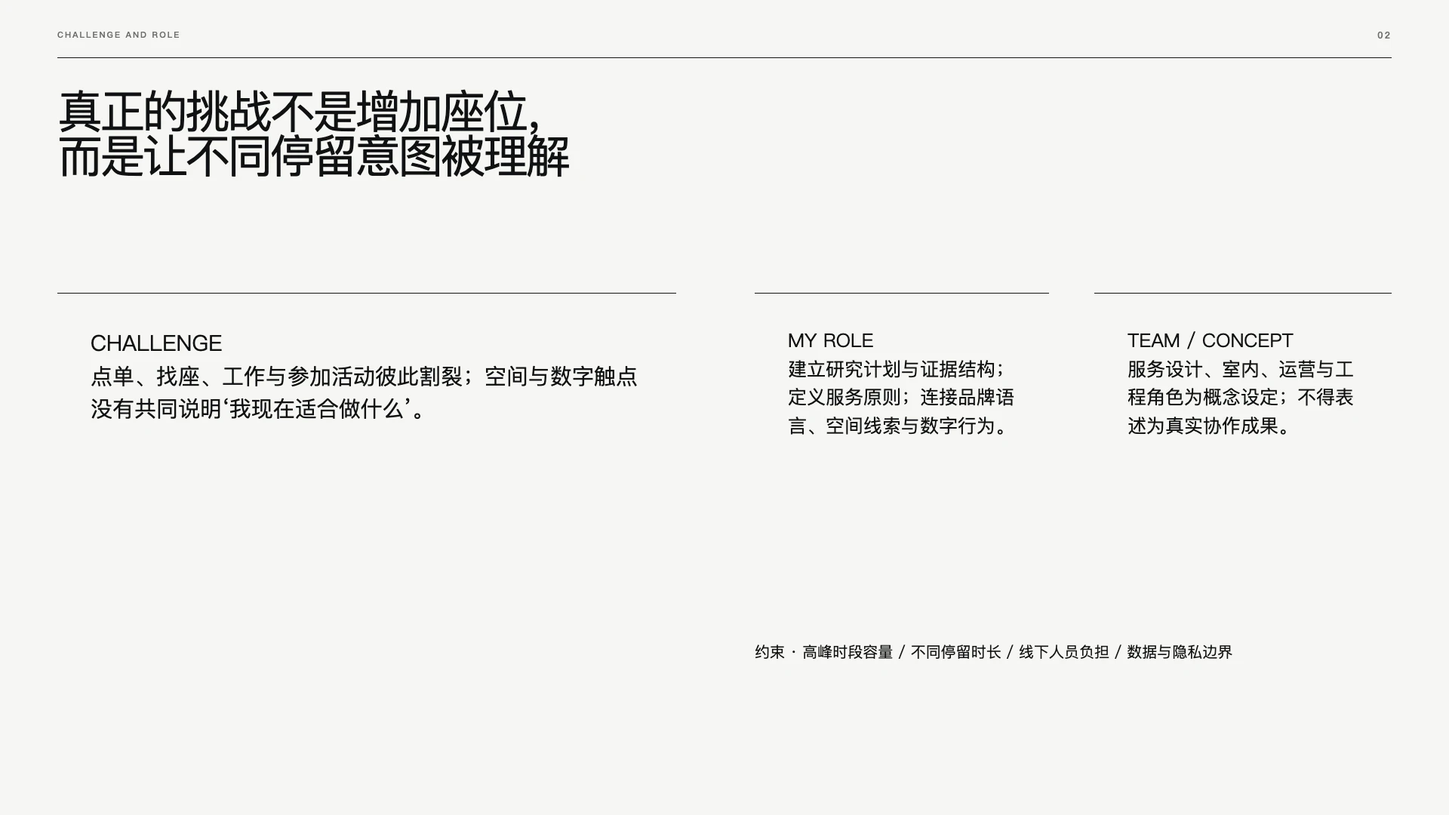
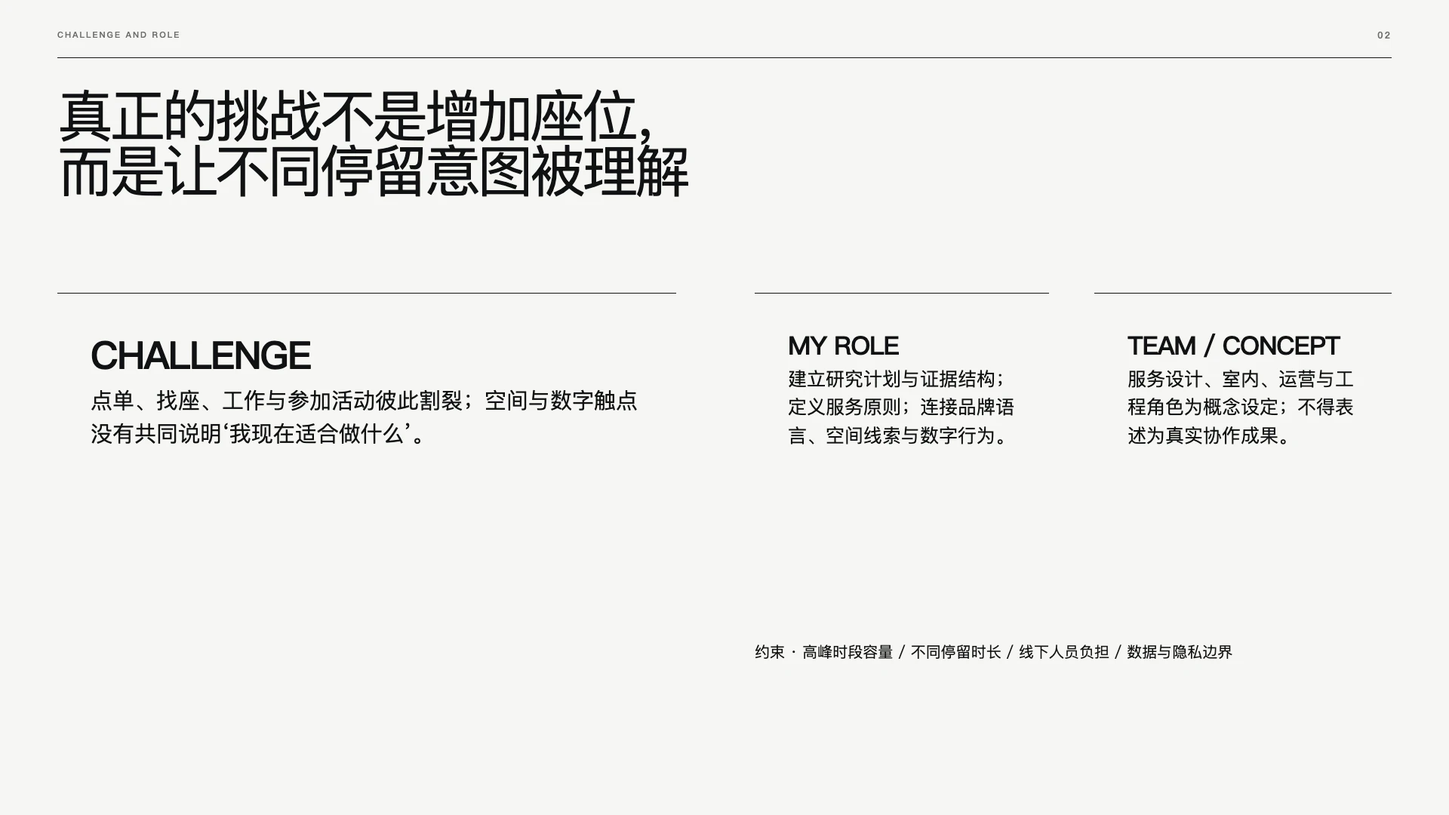
chore: publish presentation Skills from f9cfb76

diff --git a/skills/ux-brand-case-study/assets/explorations/aster-yard-0.4.0/routes/signal-pitch/theme.css b/skills/ux-brand-case-study/assets/explorations/aster-yard-0.4.0/routes/signal-pitch/theme.css
@@ -5,42 +5,45 @@ body[data-theme="signal-pitch"] {
 }
 body[data-theme="signal-pitch"] .slide { background:#f4f3ef; }
 body[data-theme="signal-pitch"] .slide::before { left:64px; top:48px; width:18px; height:18px; border-radius:50%; background:var(--deck-accent); }
-body[data-theme="signal-pitch"] .slide::after { right:64px; top:42px; min-width:48px; height:28px; display:grid; place-items:center; border:1px solid #0d0e0f; border-radius:999px; font-size:12px; font-weight:800; }
+body[data-theme="signal-pitch"] .slide::after { right:64px; top:42px; min-width:50px; height:30px; display:grid; place-items:center; border:0; border-radius:999px; background:#0d0e0f; color:#fff; font-size:12px; font-weight:800; }
 body[data-theme="signal-pitch"] .slide__eyebrow { left:102px; top:46px; font-size:12px; letter-spacing:.18em; color:#0d0e0f; }
 body[data-theme="signal-pitch"] .object--text[data-role="deck-title"],
 body[data-theme="signal-pitch"] .object--text[data-role="slide-assertion"],
 body[data-theme="signal-pitch"] .object--text[data-role="decision-statement"] { font-weight:800!important; letter-spacing:-.055em!important; line-height:.98!important; }
-body[data-theme="signal-pitch"] .object--shape { background:#fff; border:1px solid #0d0e0f; border-radius:0; white-space:pre-wrap; }
-body[data-theme="signal-pitch"] .group__stage { border:1px solid #0d0e0f; background:#fff; font-size:20px; border-radius:0; }
+body[data-theme="signal-pitch"] .object--shape { background:#fff; border:0; border-radius:38px; white-space:pre-wrap; }
+body[data-theme="signal-pitch"] .object--shape::first-line { font-size:1.22em; font-weight:850; letter-spacing:-.035em; }
+body[data-theme="signal-pitch"] .group__stage { border:0; background:#fff; font-size:20px; border-radius:30px; }
+body[data-theme="signal-pitch"] .group__stage::first-line { font-size:1.35em; letter-spacing:-.04em; }
 body[data-theme="signal-pitch"] .slide--cover { background:linear-gradient(90deg,#f4f3ef 0 62%,#0d0e0f 62%); }
-body[data-theme="signal-pitch"] .slide--cover .object--text[data-role="deck-title"] { left:104px!important; top:210px!important; width:990px!important; height:348px!important; font-size:94px!important; }
+body[data-theme="signal-pitch"] .slide--cover .object--text[data-role="deck-title"] { left:104px!important; top:210px!important; width:990px!important; height:370px!important; font-size:104px!important; }
 body[data-theme="signal-pitch"] .slide--cover .object--text[data-role="project-name"] { left:104px!important; top:116px!important; color:#0d0e0f; }
 body[data-theme="signal-pitch"] .slide--cover .object--text[data-role="role-summary"] { left:104px!important; top:650px!important; width:860px!important; }
 body[data-theme="signal-pitch"] .slide--cover .object--text[data-role="concept-disclosure"] { left:104px!important; top:934px!important; color:#64645f; }
-body[data-theme="signal-pitch"] .slide--cover .object--image { left:1230px!important; top:110px!important; width:626px!important; height:858px!important; border-radius:0!important; }
+body[data-theme="signal-pitch"] .slide--cover .object--image { left:1230px!important; top:110px!important; width:626px!important; height:858px!important; border-radius:46px!important; }
 body[data-theme="signal-pitch"] .slide--cover .object--text[data-role="image-caption"] { left:1262px!important; top:902px!important; width:548px!important; color:#fff; }
-body[data-theme="signal-pitch"] .slide--comparison .object--text[data-role="slide-assertion"] { left:104px!important; top:132px!important; width:1120px!important; }
-body[data-theme="signal-pitch"] .slide--comparison .object--shape { top:370px!important; height:420px!important; }
-body[data-theme="signal-pitch"] .slide--comparison .object--shape[data-role="challenge-panel"] { left:104px!important; width:760px!important; background:#0d0e0f; color:#fff; }
-body[data-theme="signal-pitch"] .slide--comparison .object--shape[data-role="role-panel"] { left:888px!important; width:438px!important; background:var(--deck-accent); }
-body[data-theme="signal-pitch"] .slide--comparison .object--shape[data-role="team-panel"] { left:1350px!important; width:466px!important; }
+body[data-theme="signal-pitch"] .slide--comparison .object--text[data-role="slide-assertion"] { left:104px!important; top:132px!important; width:1320px!important; height:190px!important; font-size:72px!important; }
+body[data-theme="signal-pitch"] .slide--comparison .object--shape { top:400px!important; height:390px!important; }
+body[data-theme="signal-pitch"] .slide--comparison .object--shape[data-role="challenge-panel"] { left:104px!important; width:820px!important; background:#0d0e0f; color:#fff; font-size:29px!important; }
+body[data-theme="signal-pitch"] .slide--comparison .object--shape[data-role="role-panel"] { left:948px!important; width:398px!important; background:var(--deck-accent); font-size:22px!important; }
+body[data-theme="signal-pitch"] .slide--comparison .object--shape[data-role="team-panel"] { left:1370px!important; width:446px!important; font-size:21px!important; }
 body[data-theme="signal-pitch"] .slide--comparison .object--text[data-role="constraint-note"] { left:104px!important; top:850px!important; }
-body[data-theme="signal-pitch"] .slide--process .object--text[data-role="slide-assertion"] { left:104px!important; top:116px!important; width:820px!important; }
+body[data-theme="signal-pitch"] .slide--process .object--text[data-role="slide-assertion"] { left:104px!important; top:116px!important; width:900px!important; height:182px!important; font-size:70px!important; }
 body[data-theme="signal-pitch"] .slide--process .object--image { left:104px!important; top:330px!important; width:628px!important; height:570px!important; filter:grayscale(.28) contrast(1.05); }
 body[data-theme="signal-pitch"] .slide--process .object--group { left:776px!important; top:330px!important; width:1040px!important; height:246px!important; gap:12px!important; }
 body[data-theme="signal-pitch"] .slide--process .object--shape[data-role="evidence-method"] { left:776px!important; top:618px!important; width:510px!important; height:282px!important; background:var(--deck-accent); }
 body[data-theme="signal-pitch"] .slide--process .object--shape[data-role="evidence-limitation"] { left:1306px!important; top:618px!important; width:510px!important; height:282px!important; }
 body[data-theme="signal-pitch"] .slide#s04-iteration .object--shape[data-role="iteration-a"] { left:104px!important; top:350px!important; width:480px!important; height:450px!important; }
-body[data-theme="signal-pitch"] .slide#s04-iteration .object--shape[data-role="iteration-b"] { left:610px!important; top:300px!important; width:596px!important; height:550px!important; background:var(--deck-accent); border-width:2px; }
+body[data-theme="signal-pitch"] .slide#s04-iteration .object--shape::first-line { font-size:1.55em; }
+body[data-theme="signal-pitch"] .slide#s04-iteration .object--shape[data-role="iteration-b"] { left:610px!important; top:300px!important; width:596px!important; height:550px!important; background:var(--deck-accent); }
 body[data-theme="signal-pitch"] .slide#s04-iteration .object--shape[data-role="iteration-c"] { left:1232px!important; top:350px!important; width:584px!important; height:450px!important; background:#0d0e0f; color:#fff; }
-body[data-theme="signal-pitch"] .slide--image .object--text[data-role="slide-assertion"] { left:104px!important; top:112px!important; width:880px!important; }
-body[data-theme="signal-pitch"] .slide--image .object--image { left:104px!important; top:338px!important; width:934px!important; height:604px!important; }
+body[data-theme="signal-pitch"] .slide--image .object--text[data-role="slide-assertion"] { left:104px!important; top:112px!important; width:1120px!important; height:190px!important; font-size:74px!important; }
+body[data-theme="signal-pitch"] .slide--image .object--image { left:104px!important; top:338px!important; width:934px!important; height:604px!important; border-radius:44px!important; }
 body[data-theme="signal-pitch"] .slide--image .object--group { left:1064px!important; top:338px!important; width:752px!important; height:248px!important; gap:10px!important; }
 body[data-theme="signal-pitch"] .slide--image .object--shape[data-role="system-rule-a"] { left:1064px!important; top:620px!important; width:364px!important; height:220px!important; background:var(--deck-accent); }
 body[data-theme="signal-pitch"] .slide--image .object--shape[data-role="system-rule-b"] { left:1452px!important; top:620px!important; width:364px!important; height:220px!important; }
 body[data-theme="signal-pitch"] .slide--image .object--text[data-role="application-caption"] { left:1064px!important; top:900px!important; }
 body[data-theme="signal-pitch"] .slide--closing { background:linear-gradient(90deg,#0d0e0f 0 63%,#ddf000 63%); color:#fff; }
-body[data-theme="signal-pitch"] .slide--closing .object--text[data-role="decision-statement"] { left:104px!important; top:180px!important; width:1050px!important; color:#fff; }
+body[data-theme="signal-pitch"] .slide--closing .object--text[data-role="decision-statement"] { left:104px!important; top:180px!important; width:1050px!important; height:270px!important; color:#fff; font-size:76px!important; }
 body[data-theme="signal-pitch"] .slide--closing .object--shape { top:550px!important; height:270px!important; color:#0d0e0f; }
 body[data-theme="signal-pitch"] .slide--closing .object--shape[data-role="outcome-known"] { left:104px!important; width:490px!important; }
 body[data-theme="signal-pitch"] .slide--closing .object--shape[data-role="outcome-next"] { left:620px!important; width:490px!important; }

diff --git a/skills/ux-brand-case-study/assets/explorations/aster-yard-0.4.0/routes/open-frame/theme.css b/skills/ux-brand-case-study/assets/explorations/aster-yard-0.4.0/routes/open-frame/theme.css
@@ -11,37 +11,41 @@ body[data-theme="open-frame"] .object--text[data-role="deck-title"],
 body[data-theme="open-frame"] .object--text[data-role="slide-assertion"],
 body[data-theme="open-frame"] .object--text[data-role="decision-statement"] { font-weight:500!important; letter-spacing:-.06em!important; line-height:.98!important; }
 body[data-theme="open-frame"] .object--shape { background:transparent; border-top:1px solid var(--deck-text); border-right:0; border-bottom:0; border-left:0; white-space:pre-wrap; }
+body[data-theme="open-frame"] .object--shape::first-line { font-size:1.35em; font-weight:650; letter-spacing:-.04em; }
 body[data-theme="open-frame"] .group__stage { border:0; border-left:1px solid var(--deck-rule); background:transparent; font-size:18px; padding:22px; }
+body[data-theme="open-frame"] .group__stage::first-line { font-size:1.35em; letter-spacing:-.05em; }
 body[data-theme="open-frame"] .slide--cover .object--text[data-role="project-name"] { left:76px!important; top:112px!important; }
-body[data-theme="open-frame"] .slide--cover .object--text[data-role="deck-title"] { left:76px!important; top:192px!important; width:760px!important; height:400px!important; font-size:84px!important; }
+body[data-theme="open-frame"] .slide--cover .object--text[data-role="deck-title"] { left:76px!important; top:192px!important; width:790px!important; height:440px!important; font-size:108px!important; }
 body[data-theme="open-frame"] .slide--cover .object--text[data-role="role-summary"] { left:76px!important; top:704px!important; width:700px!important; font-size:20px!important; }
 body[data-theme="open-frame"] .slide--cover .object--text[data-role="concept-disclosure"] { left:76px!important; top:946px!important; }
 body[data-theme="open-frame"] .slide--cover .object--image { left:900px!important; top:118px!important; width:944px!important; height:826px!important; }
 body[data-theme="open-frame"] .slide--cover .object--text[data-role="image-caption"] { left:932px!important; top:886px!important; width:850px!important; color:#fff; }
-body[data-theme="open-frame"] .slide--comparison .object--text[data-role="slide-assertion"] { left:76px!important; top:118px!important; width:1180px!important; font-size:60px!important; }
+body[data-theme="open-frame"] .slide--comparison .object--text[data-role="slide-assertion"] { left:76px!important; top:118px!important; width:1360px!important; height:194px!important; font-size:74px!important; }
 body[data-theme="open-frame"] .slide--comparison .object--shape[data-role="challenge-panel"] { left:76px!important; top:388px!important; width:820px!important; height:390px!important; font-size:29px!important; }
+body[data-theme="open-frame"] .slide--comparison .object--shape[data-role="challenge-panel"]::first-line { font-size:1.75em; }
 body[data-theme="open-frame"] .slide--comparison .object--shape[data-role="role-panel"] { left:1000px!important; top:388px!important; width:390px!important; height:390px!important; }
 body[data-theme="open-frame"] .slide--comparison .object--shape[data-role="team-panel"] { left:1450px!important; top:388px!important; width:394px!important; height:390px!important; }
 body[data-theme="open-frame"] .slide--comparison .object--text[data-role="constraint-note"] { left:1000px!important; top:850px!important; width:810px!important; font-size:20px!important; }
-body[data-theme="open-frame"] .slide--process .object--text[data-role="slide-assertion"] { left:76px!important; top:118px!important; width:820px!important; }
+body[data-theme="open-frame"] .slide--process .object--text[data-role="slide-assertion"] { left:76px!important; top:118px!important; width:850px!important; height:192px!important; font-size:72px!important; }
 body[data-theme="open-frame"] .slide--process .object--image { left:1020px!important; top:118px!important; width:824px!important; height:520px!important; }
 body[data-theme="open-frame"] .slide--process .object--group { left:76px!important; top:394px!important; width:820px!important; height:244px!important; gap:0!important; }
 body[data-theme="open-frame"] .slide--process .object--shape[data-role="evidence-method"] { left:76px!important; top:730px!important; width:820px!important; height:220px!important; }
 body[data-theme="open-frame"] .slide--process .object--shape[data-role="evidence-limitation"] { left:1020px!important; top:730px!important; width:824px!important; height:220px!important; }
 body[data-theme="open-frame"] .slide#s04-iteration .object--text[data-role="slide-assertion"] { left:76px!important; top:118px!important; width:890px!important; }
 body[data-theme="open-frame"] .slide#s04-iteration .object--shape[data-role="iteration-a"] { left:76px!important; top:390px!important; width:430px!important; height:430px!important; }
-body[data-theme="open-frame"] .slide#s04-iteration .object--shape[data-role="iteration-b"] { left:610px!important; top:316px!important; width:580px!important; height:580px!important; background:#111214; color:#fff; border:0; }
+body[data-theme="open-frame"] .slide#s04-iteration .object--shape::first-line { font-size:1.55em; }
+body[data-theme="open-frame"] .slide#s04-iteration .object--shape[data-role="iteration-b"] { left:610px!important; top:286px!important; width:590px!important; height:620px!important; background:#111214; color:#fff; border:0; font-size:30px!important; }
 body[data-theme="open-frame"] .slide#s04-iteration .object--shape[data-role="iteration-c"] { left:1320px!important; top:390px!important; width:524px!important; height:430px!important; }
 body[data-theme="open-frame"] .slide#s04-iteration .object--text[data-role="iteration-learning"] { left:76px!important; top:930px!important; }
-body[data-theme="open-frame"] .slide--image .object--text[data-role="slide-assertion"] { left:76px!important; top:118px!important; width:760px!important; font-size:50px!important; }
-body[data-theme="open-frame"] .slide--image .object--image { left:860px!important; top:118px!important; width:984px!important; height:620px!important; }
-body[data-theme="open-frame"] .slide--image .object--group { left:76px!important; top:470px!important; width:700px!important; height:268px!important; gap:0!important; }
-body[data-theme="open-frame"] .slide--image .object--shape[data-role="system-rule-a"] { left:860px!important; top:820px!important; width:460px!important; height:150px!important; }
-body[data-theme="open-frame"] .slide--image .object--shape[data-role="system-rule-b"] { left:1384px!important; top:820px!important; width:460px!important; height:150px!important; }
+body[data-theme="open-frame"] .slide--image .object--text[data-role="slide-assertion"] { left:76px!important; top:118px!important; width:840px!important; height:172px!important; font-size:58px!important; }
+body[data-theme="open-frame"] .slide--image .object--image { left:960px!important; top:118px!important; width:884px!important; height:620px!important; }
+body[data-theme="open-frame"] .slide--image .object--group { left:76px!important; top:470px!important; width:780px!important; height:268px!important; gap:0!important; }
+body[data-theme="open-frame"] .slide--image .object--shape[data-role="system-rule-a"] { left:960px!important; top:820px!important; width:424px!important; height:150px!important; }
+body[data-theme="open-frame"] .slide--image .object--shape[data-role="system-rule-b"] { left:1420px!important; top:820px!important; width:424px!important; height:150px!important; }
 body[data-theme="open-frame"] .slide--image .object--text[data-role="application-caption"] { left:76px!important; top:900px!important; width:700px!important; }
-body[data-theme="open-frame"] .slide--closing .object--text[data-role="decision-statement"] { left:76px!important; top:148px!important; width:980px!important; height:300px!important; font-size:72px!important; }
+body[data-theme="open-frame"] .slide--closing .object--text[data-role="decision-statement"] { left:76px!important; top:148px!important; width:1020px!important; height:286px!important; font-size:72px!important; }
 body[data-theme="open-frame"] .slide--closing .object--shape { height:260px!important; }
 body[data-theme="open-frame"] .slide--closing .object--shape[data-role="outcome-known"] { left:1130px!important; top:148px!important; width:714px!important; }
 body[data-theme="open-frame"] .slide--closing .object--shape[data-role="outcome-next"] { left:1130px!important; top:466px!important; width:714px!important; }
-body[data-theme="open-frame"] .slide--closing .object--shape[data-role="reflection"] { left:76px!important; top:620px!important; width:980px!important; height:280px!important; font-size:28px!important; }
+body[data-theme="open-frame"] .slide--closing .object--shape[data-role="reflection"] { left:76px!important; top:650px!important; width:980px!important; height:250px!important; font-size:32px!important; }
 body[data-theme="open-frame"] .slide--closing .object--text[data-role="concept-disclosure"] { left:1130px!important; top:886px!important; width:714px!important; }

diff --git a/skills/ux-brand-case-study/assets/explorations/aster-yard-0.4.0/routes/material-ledger/theme.css b/skills/ux-brand-case-study/assets/explorations/aster-yard-0.4.0/routes/material-ledger/theme.css
@@ -11,37 +11,41 @@ body[data-theme="material-ledger"] .object--text[data-role="deck-title"],
 body[data-theme="material-ledger"] .object--text[data-role="slide-assertion"],
 body[data-theme="material-ledger"] .object--text[data-role="decision-statement"] { font-weight:500!important; letter-spacing:-.05em!important; line-height:1.02!important; }
 body[data-theme="material-ledger"] .object--shape { border:1px solid var(--deck-rule); background:rgba(248,245,239,.9); white-space:pre-wrap; }
+body[data-theme="material-ledger"] .object--shape::first-line { font-size:1.28em; font-weight:650; letter-spacing:-.035em; }
 body[data-theme="material-ledger"] .group__stage { border-top:1px solid var(--deck-text); border-right:0; border-bottom:0; border-left:0; background:transparent; font-size:19px; padding:26px 8px; }
+body[data-theme="material-ledger"] .group__stage::first-line { font-size:1.3em; letter-spacing:-.045em; }
 body[data-theme="material-ledger"] .slide--cover { background:#e8e3db; }
 body[data-theme="material-ledger"] .slide--cover .object--text[data-role="project-name"] { left:90px!important; top:116px!important; }
-body[data-theme="material-ledger"] .slide--cover .object--text[data-role="deck-title"] { left:90px!important; top:188px!important; width:900px!important; height:360px!important; font-size:88px!important; }
+body[data-theme="material-ledger"] .slide--cover .object--text[data-role="deck-title"] { left:90px!important; top:188px!important; width:900px!important; height:390px!important; font-size:102px!important; }
 body[data-theme="material-ledger"] .slide--cover .object--text[data-role="role-summary"] { left:90px!important; top:670px!important; width:760px!important; font-size:21px!important; }
 body[data-theme="material-ledger"] .slide--cover .object--text[data-role="concept-disclosure"] { left:90px!important; top:952px!important; }
 body[data-theme="material-ledger"] .slide--cover .object--image { left:1030px!important; top:122px!important; width:800px!important; height:820px!important; filter:saturate(.72) contrast(.98); }
 body[data-theme="material-ledger"] .slide--cover .object--text[data-role="image-caption"] { left:1060px!important; top:886px!important; width:700px!important; color:#fff; }
-body[data-theme="material-ledger"] .slide--comparison .object--text[data-role="slide-assertion"] { left:90px!important; top:130px!important; width:1180px!important; }
+body[data-theme="material-ledger"] .slide--comparison .object--text[data-role="slide-assertion"] { left:90px!important; top:130px!important; width:1380px!important; height:190px!important; font-size:72px!important; }
 body[data-theme="material-ledger"] .slide--comparison .object--shape { top:380px!important; height:388px!important; }
-body[data-theme="material-ledger"] .slide--comparison .object--shape[data-role="challenge-panel"] { left:90px!important; width:770px!important; }
-body[data-theme="material-ledger"] .slide--comparison .object--shape[data-role="role-panel"] { left:884px!important; width:446px!important; }
-body[data-theme="material-ledger"] .slide--comparison .object--shape[data-role="team-panel"] { left:1354px!important; width:476px!important; }
+body[data-theme="material-ledger"] .slide--comparison .object--shape[data-role="challenge-panel"] { left:90px!important; width:770px!important; font-size:29px!important; }
+body[data-theme="material-ledger"] .slide--comparison .object--shape[data-role="challenge-panel"]::first-line { font-size:1.55em; }
+body[data-theme="material-ledger"] .slide--comparison .object--shape[data-role="role-panel"] { left:884px!important; width:446px!important; font-size:21px!important; }
+body[data-theme="material-ledger"] .slide--comparison .object--shape[data-role="team-panel"] { left:1354px!important; width:476px!important; font-size:19px!important; }
 body[data-theme="material-ledger"] .slide--comparison .object--text[data-role="constraint-note"] { left:90px!important; top:836px!important; }
-body[data-theme="material-ledger"] .slide--process .object--text[data-role="slide-assertion"] { left:90px!important; top:128px!important; width:940px!important; }
+body[data-theme="material-ledger"] .slide--process .object--text[data-role="slide-assertion"] { left:90px!important; top:128px!important; width:820px!important; height:172px!important; font-size:48px!important; }
 body[data-theme="material-ledger"] .slide--process .object--image { left:980px!important; top:166px!important; width:850px!important; height:464px!important; filter:saturate(.58); }
 body[data-theme="material-ledger"] .slide--process .object--group { left:90px!important; top:390px!important; width:810px!important; height:236px!important; gap:0!important; }
 body[data-theme="material-ledger"] .slide--process .object--shape[data-role="evidence-method"] { left:90px!important; top:704px!important; width:810px!important; height:220px!important; }
 body[data-theme="material-ledger"] .slide--process .object--shape[data-role="evidence-limitation"] { left:980px!important; top:704px!important; width:850px!important; height:220px!important; }
 body[data-theme="material-ledger"] .slide#s04-iteration .object--shape { border-top:1px solid var(--deck-text); border-right:0; border-bottom:0; border-left:0; background:transparent; }
 body[data-theme="material-ledger"] .slide#s04-iteration .object--shape[data-role="iteration-a"] { left:90px!important; top:350px!important; width:510px!important; height:420px!important; }
-body[data-theme="material-ledger"] .slide#s04-iteration .object--shape[data-role="iteration-b"] { left:644px!important; top:306px!important; width:544px!important; height:510px!important; background:#e8e3db; border:1px solid var(--deck-text); }
+body[data-theme="material-ledger"] .slide#s04-iteration .object--shape::first-line { font-size:1.6em; }
+body[data-theme="material-ledger"] .slide#s04-iteration .object--shape[data-role="iteration-b"] { left:644px!important; top:292px!important; width:544px!important; height:538px!important; background:#e8e3db; border:1px solid var(--deck-text); font-size:29px!important; }
 body[data-theme="material-ledger"] .slide#s04-iteration .object--shape[data-role="iteration-c"] { left:1232px!important; top:350px!important; width:598px!important; height:420px!important; }
-body[data-theme="material-ledger"] .slide--image .object--text[data-role="slide-assertion"] { left:90px!important; top:126px!important; width:930px!important; }
+body[data-theme="material-ledger"] .slide--image .object--text[data-role="slide-assertion"] { left:90px!important; top:126px!important; width:1200px!important; height:190px!important; font-size:72px!important; }
 body[data-theme="material-ledger"] .slide--image .object--image { left:90px!important; top:366px!important; width:780px!important; height:560px!important; filter:saturate(.72); }
 body[data-theme="material-ledger"] .slide--image .object--group { left:930px!important; top:350px!important; width:900px!important; height:250px!important; gap:0!important; }
 body[data-theme="material-ledger"] .slide--image .object--shape[data-role="system-rule-a"] { left:930px!important; top:680px!important; width:430px!important; height:190px!important; }
 body[data-theme="material-ledger"] .slide--image .object--shape[data-role="system-rule-b"] { left:1400px!important; top:680px!important; width:430px!important; height:190px!important; }
 body[data-theme="material-ledger"] .slide--image .object--text[data-role="application-caption"] { left:930px!important; top:918px!important; }
 body[data-theme="material-ledger"] .slide--closing { background:#d8d2c9; }
-body[data-theme="material-ledger"] .slide--closing .object--text[data-role="decision-statement"] { left:90px!important; top:142px!important; width:1640px!important; height:220px!important; font-size:70px!important; }
+body[data-theme="material-ledger"] .slide--closing .object--text[data-role="decision-statement"] { left:90px!important; top:142px!important; width:1640px!important; height:260px!important; font-size:86px!important; }
 body[data-theme="material-ledger"] .slide--closing .object--shape { top:508px!important; height:286px!important; background:transparent; border-top:1px solid var(--deck-text); border-right:0; border-bottom:0; border-left:0; }
 body[data-theme="material-ledger"] .slide--closing .object--shape[data-role="outcome-known"] { left:90px!important; width:510px!important; }
 body[data-theme="material-ledger"] .slide--closing .object--shape[data-role="outcome-next"] { left:650px!important; width:510px!important; }

diff --git a/skills/ux-brand-case-study/assets/explorations/aster-yard-0.4.0/README.md b/skills/ux-brand-case-study/assets/explorations/aster-yard-0.4.0/README.md
@@ -45,6 +45,24 @@ These routes differ in grid, typography, image behavior, rhythm, and material
 color—not only palette. All remain draft until the user selects or mixes a
 route and a named reviewer approves the expanded template.
 
+## Rhythm revision after visual review
+
+The second rendered pass applies the user's editorial-rhythm feedback rather
+than treating every slide as equally full:
+
+- covers and closings are quiet, high-scale frames;
+- evidence and system pages carry the highest working density;
+- challenge and iteration pages use one oversized assertion or selected option
+  as a clear peak;
+- labels, sequence numbers, decisions, and first lines have distinct scale roles
+  instead of behaving like uniform body copy;
+- Signal Pitch uses borderless rounded color masses; Material Ledger retains
+  evidence-bearing hairlines; Open Frame reserves long rules for structure.
+
+The rounded Signal Pitch blocks transfer the reference principle of soft,
+fashion-forward color fields. They do not reproduce the reference card count,
+content, proportions, or black-line graphic.
+
 ## Honest evidence boundary
 
 Aster Yard is a synthetic concept project. The research scene, findings,
